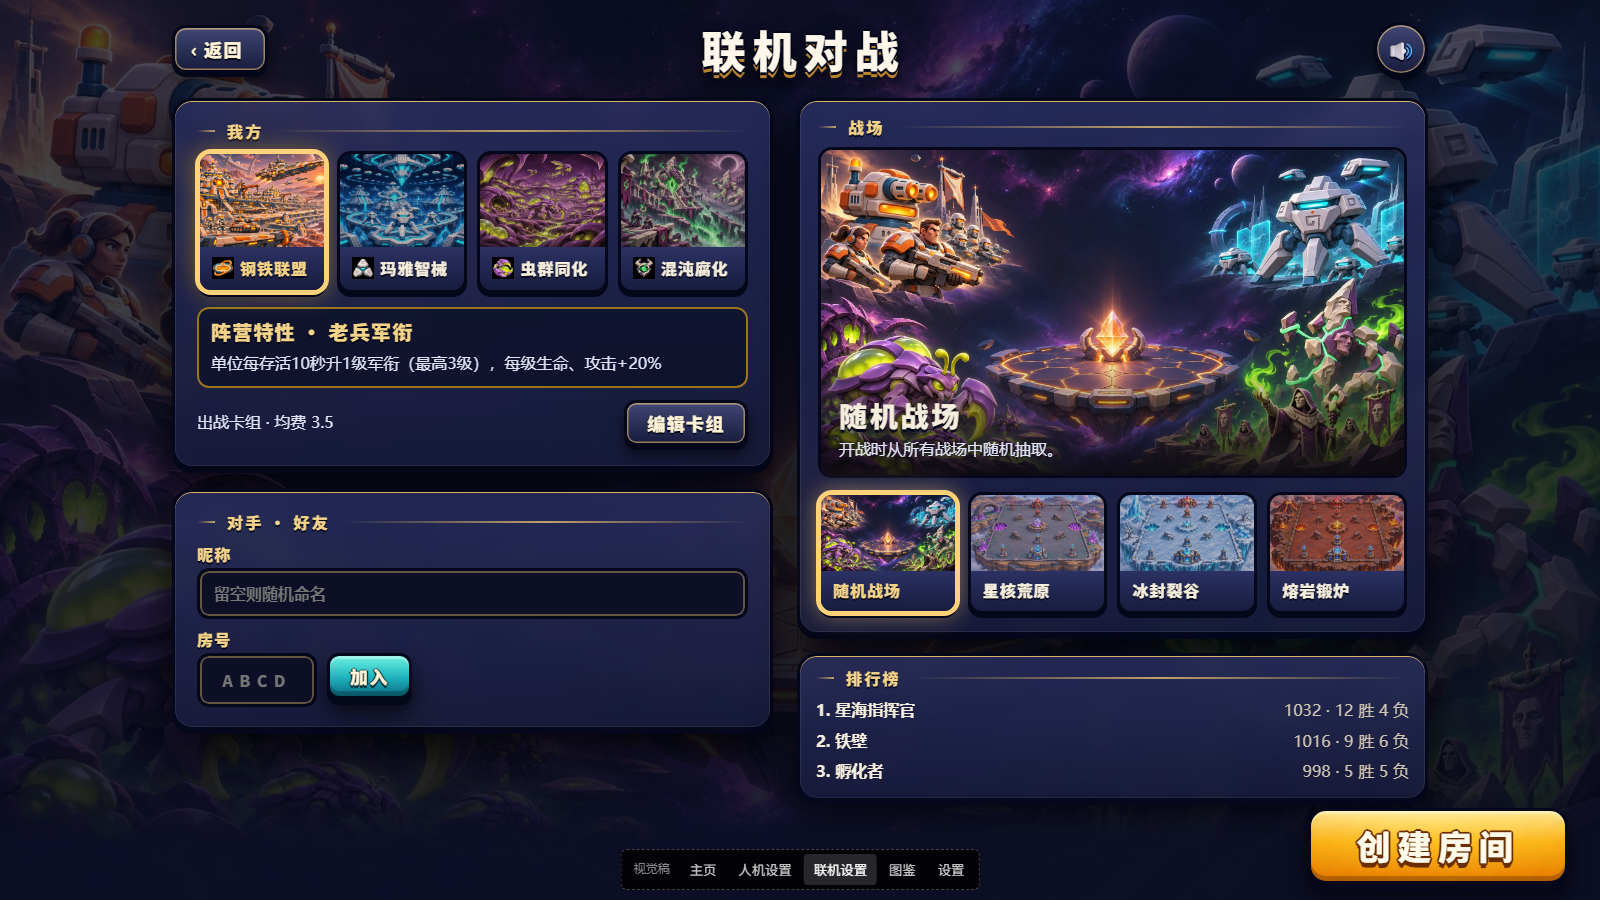
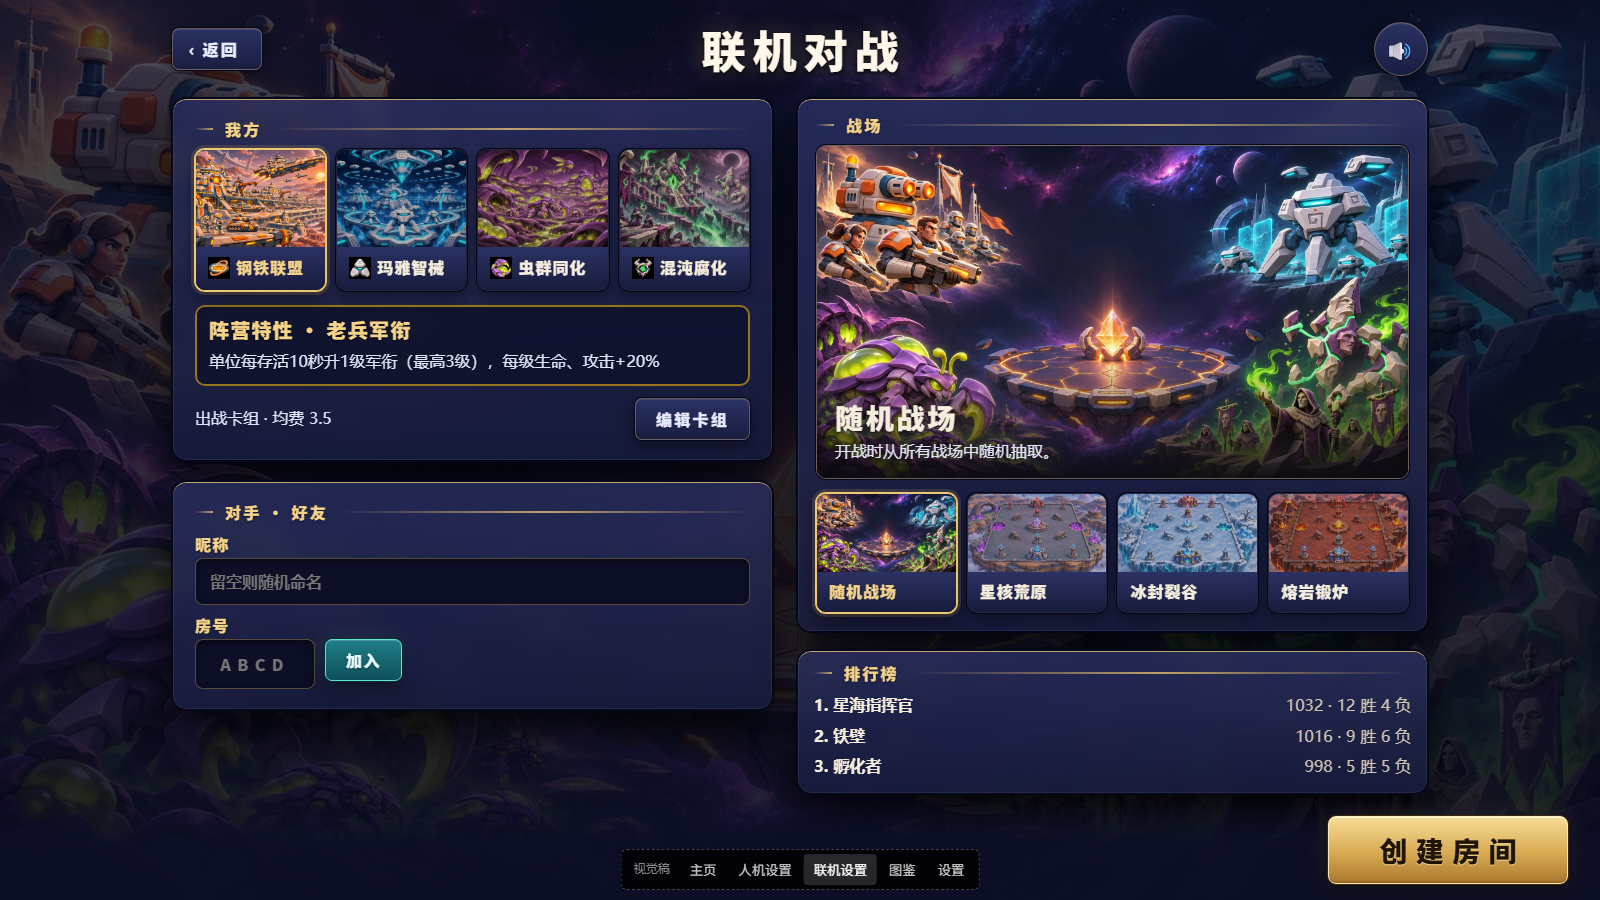
视觉稿 v0.9:按钮与选中态去卡通化——细金属边+顶部高光+柔和投影,拉丝金/深青/墨蓝三档,选中改金边淡金底,去掉粗描边、硬立体底边和描边字

Changed region(s): [[0.0938, 0.0311, 1.0, 0.9956]]

diff --git a/mockup/index.html b/mockup/index.html
@@ -376,6 +376,98 @@ body.theme-d .g-plum { box-shadow: inset 0 0 0 1.5px color-mix(in srgb, var(--ri
 body.theme-d .choice, body.theme-d .card { border-color: #05071a; }
 body.theme-d .choice.sel, body.theme-d .card.in { border-color: #ffd27a; }
 body.theme-d .cost { background: radial-gradient(circle at 35% 30%, #8fe9ff, #2a7fd6); }
+
+/* ═════ v0.9 按钮与选中态:去卡通化,统一为“精致游戏客户端”质感 ═════
+   细金属边 1px + 顶部一道高光 + 柔和投影;不再用粗描边、硬立体底边、描边字和糖果渐变
+   三档颜色:金(主) / 青(次) / 墨蓝(中性);选中 = 金边 + 淡金底,不再整块涂金 */
+:root {
+  --b-radius: 8px;
+  --b-gold-a: #f6dc97; --b-gold-b: #d9aa52; --b-gold-c: #a9772c; --b-gold-ink: #1f1406; --b-gold-edge: #ffe9b0;
+  --b-teal-a: #1f7f87; --b-teal-b: #0f4f5c; --b-teal-edge: #5fe3d4; --b-teal-ink: #eafffc;
+  --b-ink-a: #2a3264; --b-ink-b: #191e40; --b-ink-edge: #e8c07059; --b-ink-text: #e9ecff;
+  --sel-edge: #f0c870; --sel-fill: #f0c8701f;
+}
+.g-btn {
+  border: 1px solid transparent; border-radius: var(--b-radius); letter-spacing: .14em;
+  text-shadow: 0 1px 1px #0006; filter: none;
+  box-shadow: inset 0 1px 0 #ffffff33, inset 0 -1px 0 #00000040, 0 6px 16px #0007;
+  transition: background .15s, border-color .15s, box-shadow .15s, transform .1s, color .15s;
+}
+.g-btn:hover { filter: none; transform: translateY(-1px); }
+.g-btn:active { transform: translateY(1px); box-shadow: inset 0 2px 6px #0006, 0 2px 6px #0006; }
+.g-btn:disabled { opacity: .45; transform: none; }
+/* 主:拉丝金属金,深色字(深字 + 亮金底的对比度最高) */
+.g-gold { color: var(--b-gold-ink); text-shadow: 0 1px 0 #fff3cc80;
+  background: linear-gradient(180deg, var(--b-gold-a) 0%, var(--b-gold-b) 55%, var(--b-gold-c) 100%);
+  border-color: var(--b-gold-edge);
+  box-shadow: inset 0 1px 0 #fffbe8, inset 0 -2px 0 #7a521a66, 0 0 0 1px #3a280f, 0 8px 22px #0008, 0 0 28px #f0c87026; }
+.g-gold:hover { background: linear-gradient(180deg, #fbe7b0 0%, #e4b862 55%, #b4833a 100%);
+  box-shadow: inset 0 1px 0 #fffbe8, inset 0 -2px 0 #7a521a66, 0 0 0 1px #3a280f, 0 10px 26px #0009, 0 0 38px #f0c87055; }
+/* 次:深青底 + 亮青细边,浅色字 */
+.g-blue { color: var(--b-teal-ink); text-shadow: 0 1px 2px #00262e;
+  background: linear-gradient(180deg, var(--b-teal-a), var(--b-teal-b));
+  border-color: var(--b-teal-edge);
+  box-shadow: inset 0 1px 0 #ffffff2e, 0 0 0 1px #052a31, 0 8px 20px #0008, 0 0 24px #5fe3d422; }
+.g-blue:hover { background: linear-gradient(180deg, #249099, #12606d); box-shadow: inset 0 1px 0 #ffffff38, 0 0 0 1px #052a31, 0 10px 24px #0009, 0 0 32px #5fe3d444; }
+/* 中性:墨蓝底 + 细金边 */
+.g-plum, .g-xr { color: var(--b-ink-text);
+  background: linear-gradient(180deg, var(--b-ink-a), var(--b-ink-b));
+  border-color: var(--b-ink-edge);
+  box-shadow: inset 0 1px 0 #ffffff1f, 0 0 0 1px #05071a, 0 6px 16px #0007; }
+.g-plum:hover, .g-xr:hover { color: #fff; border-color: #e8c070b3; background: linear-gradient(180deg, #323b74, #1d2349); }
+/* 尺寸收一点:去掉“大胖按钮”感 */
+.g-gold { height: 78px; font-size: 34px; letter-spacing: .26em; padding-left: .26em; }
+.g-blue { height: 64px; font-size: 26px; letter-spacing: .22em; padding-left: .22em; }
+.minor-row .g-plum { height: 54px; font-size: 19px; }
+.g-go { height: 68px; font-size: 28px; min-width: 240px; letter-spacing: .3em; padding-left: calc(40px + .3em); }
+.g-sm { height: 42px; font-size: 16px; border-radius: 7px; }
+.g-back { height: 42px; font-size: 16px; border-radius: 7px; }
+.round-btn { border-radius: 50%; }
+.g-blue.g-sm { font-size: 16px; letter-spacing: .1em; padding: 0 20px; }
+
+/* 选中态:金边 + 淡金底,文字变金,不再整块涂成糖果金 */
+.seg { border: 1px solid #e8c07059; border-radius: 8px; box-shadow: 0 0 0 1px #05071a, 0 6px 14px #0006; background: var(--b-ink-b); }
+.seg button { background: linear-gradient(180deg, var(--b-ink-a), var(--b-ink-b)); color: #c7cdee; text-shadow: none; }
+.seg button + button { border-left: 1px solid #ffffff14; }
+.seg button.sel { background: linear-gradient(180deg, #f0c87038, #f0c87014); color: #ffe2a0; text-shadow: none; box-shadow: inset 0 0 0 1px var(--sel-edge); }
+.choice { border: 1px solid #ffffff1a; border-radius: 10px; box-shadow: 0 0 0 1px #05071a, 0 6px 14px #0006; }
+.choice:hover { border-color: #e8c07099; }
+.choice.sel { border-color: var(--sel-edge); box-shadow: 0 0 0 1px var(--sel-edge), 0 0 0 4px #f0c87026, 0 8px 18px #0007; }
+.choice .name { text-shadow: none; }
+.diff .name { background: linear-gradient(180deg, var(--b-ink-a), var(--b-ink-b)); color: #c7cdee; }
+.choice.diff.sel .name { background: linear-gradient(180deg, #f0c87038, #f0c87014); color: #ffe2a0; text-shadow: none; }
+.tab.sel { color: #ffe2a0; background: linear-gradient(180deg, #f0c87038, #f0c87014); border-color: var(--sel-edge); text-shadow: none;
+  box-shadow: inset 0 1px 0 #ffffff1f, 0 0 0 1px #05071a, 0 0 0 4px #f0c87022, 0 6px 16px #0007; }
+.card { border: 1px solid #ffffff1a; border-radius: 10px; box-shadow: 0 0 0 1px #05071a, 0 6px 14px #0006; }
+.card.in { border-color: var(--sel-edge); box-shadow: 0 0 0 1px var(--sel-edge), 0 6px 14px #0006; }
+.card.view, .card.in.view { box-shadow: 0 0 0 1px #fff, 0 0 0 4px #ffffff33, 0 8px 18px #0008; }
+.card .cname, .passive b, .stat b, .deckstat b, .detail h3, .map .preview h2, .over, .field span, .row b { text-shadow: 0 1px 2px #0008; }
+.card .tick { background: var(--sel-edge); border: 0; color: #1f1406; text-shadow: none; box-shadow: 0 2px 6px #0008; }
+.cost { background: radial-gradient(circle at 35% 30%, #7fd8ff, #2a6fc4 75%); border: 1px solid #bfe9ff; box-shadow: 0 2px 6px #0008; text-shadow: 0 1px 1px #0008; }
+.dslot, .detail .art { border: 1px solid #ffffff1a; box-shadow: 0 0 0 1px #05071a; border-radius: 10px; }
+.input { border: 1px solid #e8c07059; border-radius: 8px; box-shadow: inset 0 2px 6px #0008; }
+.map .preview { border: 1px solid #e8c07066; box-shadow: 0 0 0 1px #05071a; border-radius: 10px; }
+.passive { border-radius: 10px; }
+/* 面板:同样去掉硬立体底边 */
+.frame, body.theme-d .frame { border-radius: 14px; border-width: 1px;
+  box-shadow: inset 0 1px 0 #e8c070cc, inset 0 0 0 1px #ffffff12, 0 0 0 1px #05071a, 0 22px 40px #000b; }
+/* 页面标题:去掉多层描边投影,改成干净的暖白 + 柔光 */
+.topbar h1 { text-shadow: 0 2px 4px #000c, 0 0 24px #f0c87040; }
+@media (max-width: 720px) {
+  .g-gold { height: 68px; font-size: 28px; }
+  .g-blue { height: 58px; font-size: 22px; }
+  .minor-row .g-plum { height: 50px; font-size: 17px; }
+  .g-go { height: 58px; font-size: 24px; min-width: 0; padding-left: .3em; }
+}
+/* 主题里的青色规则优先级更高,这里同样加 body.theme-d 前缀覆盖成深青 */
+body.theme-d .g-blue, body.theme-d .g-blue.g-sm { color: var(--b-teal-ink); text-shadow: 0 1px 2px #00262e;
+  background: linear-gradient(180deg, var(--b-teal-a), var(--b-teal-b)); border-color: var(--b-teal-edge);
+  box-shadow: inset 0 1px 0 #ffffff2e, 0 0 0 1px #052a31, 0 8px 20px #0008, 0 0 24px #5fe3d422; }
+body.theme-d .g-blue:hover { background: linear-gradient(180deg, #249099, #12606d); }
+body.theme-d .g-plum, body.theme-d .g-xr { box-shadow: inset 0 1px 0 #ffffff1f, 0 0 0 1px #05071a, 0 6px 16px #0007; }
+body.theme-d .choice, body.theme-d .card { border-color: #ffffff1a; }
+body.theme-d .choice.sel, body.theme-d .card.in { border-color: var(--sel-edge); }
+body.theme-d .cost { background: radial-gradient(circle at 35% 30%, #7fd8ff, #2a6fc4 75%); }
 </style>
 </head>
 <body>
